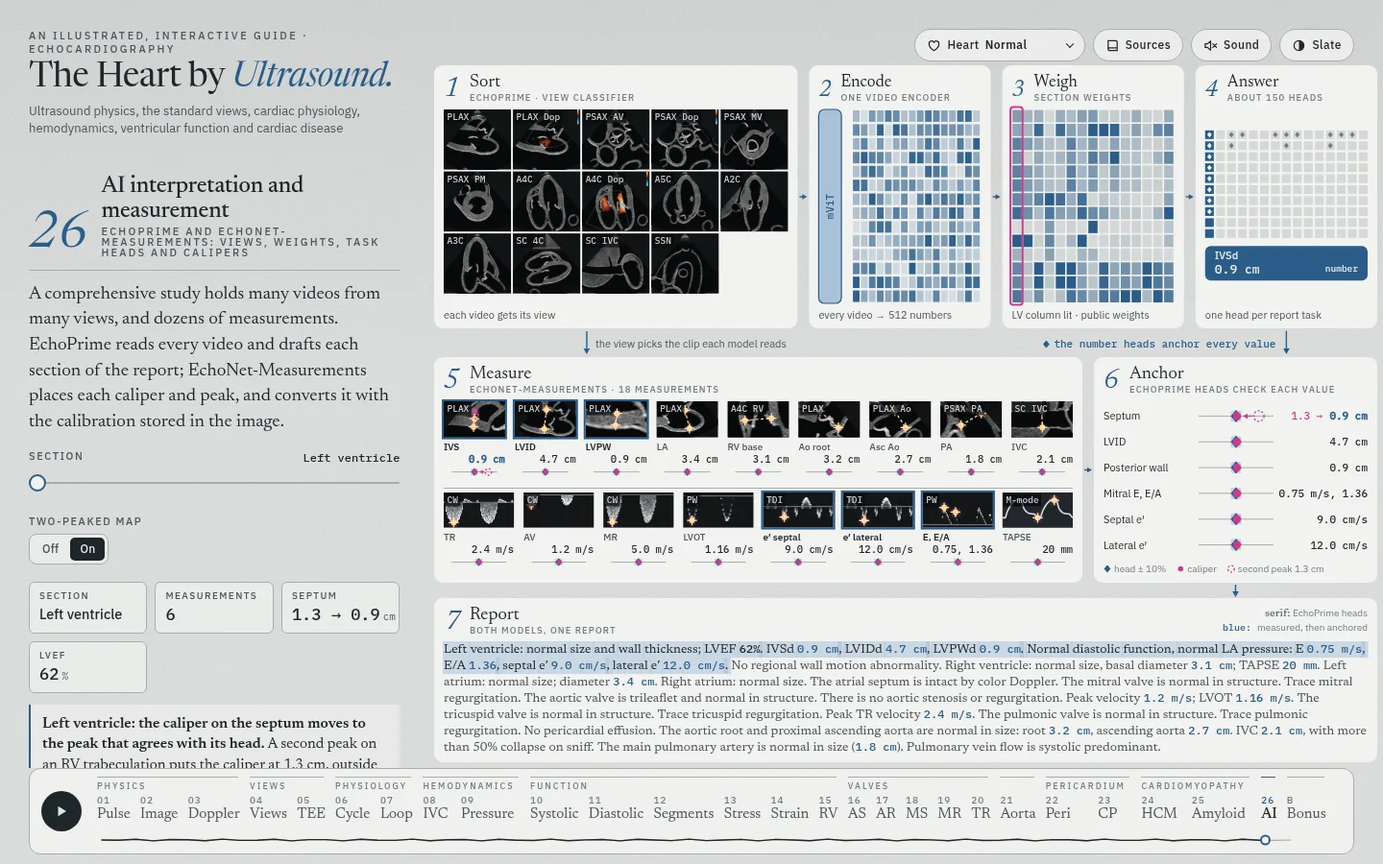
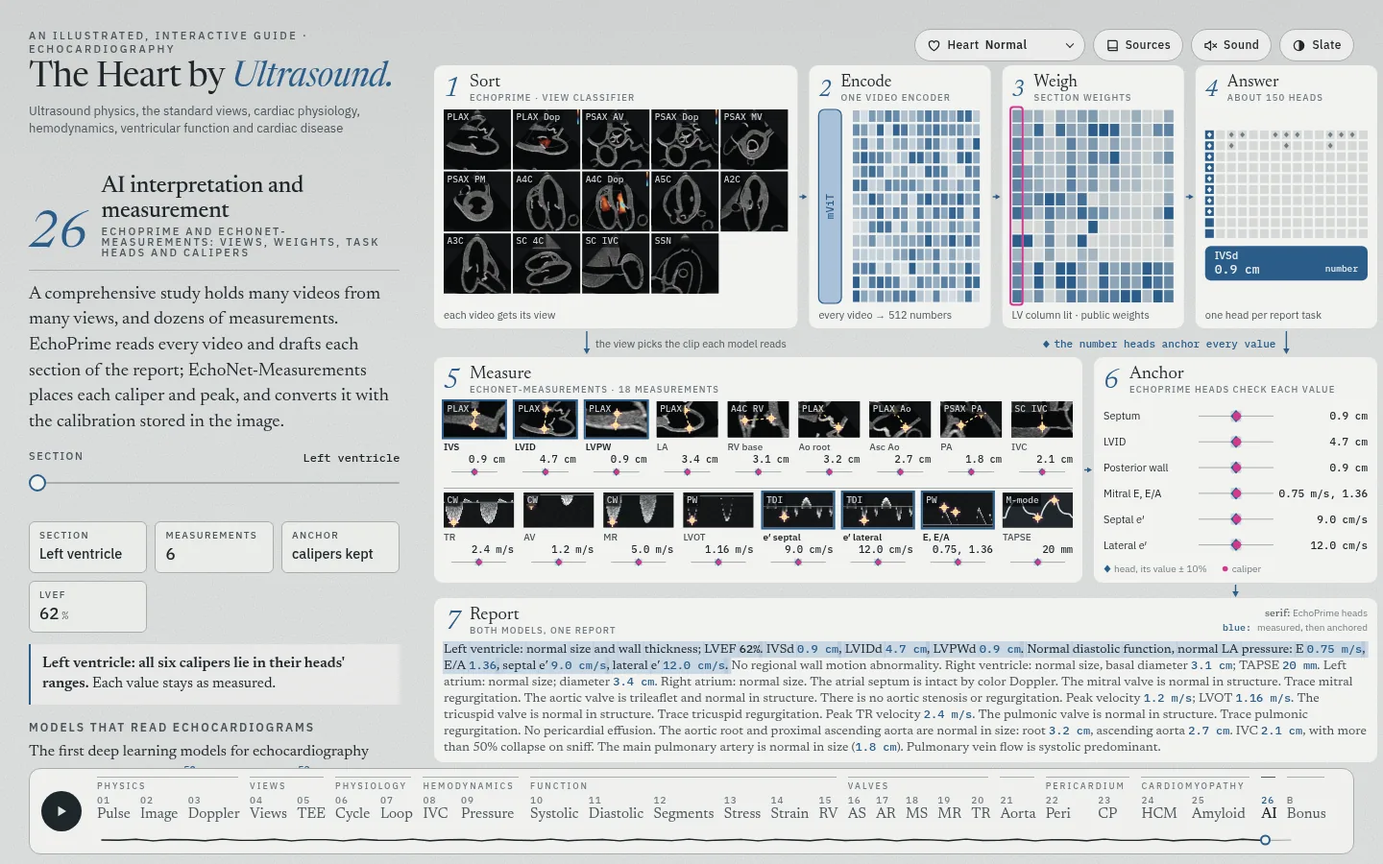
AI figure: the two-peaked map off, its switch hidden
SHOW_TWO (src/aifig.js) is false. The septum's heat map has one peak,
and its switch is hidden (data-ai-two). The code stays. aiTwo defaults
to false, and the tour, the chapter video and the intro reel no longer
set it. The figure sizes its cards for the values that can show.

The chapter text, its key point and the figure's caption no longer
describe a second peak. The anchor's sentence for two calipers reads
"both calipers", and its readout "calipers kept".

README: the AI row, docs/screenshots/ai.webp and a checks entry.

Claude-Session: https://claude.ai/code/session_01NtQNVy8YQ5NUAw3xwF3MnN

diff --git a/index.html b/index.html
@@ -318,7 +318,7 @@
     </figure>
     <figure class="fig" id="fig-ai">
       <canvas class="fig-canvas" aria-hidden="true"></canvas>
-      <figcaption class="sr-only">How EchoPrime and EchoNet-Measurements read one study of the heart shown, in seven steps. EchoPrime: the 14 videos of the study, cut from the heart model, each tagged with its view; one video encoder that turns each video into 512 numbers; the public attention weights, a column for each of the 15 report sections and a row for each video, with the chosen section's column lit; and about 150 task heads, ten for each section, with the number heads marked and one head's value. EchoNet-Measurements: the nine B-mode measurements, each on its view at the frame that it reports, with its heat maps and its caliper, and the nine Doppler and M-mode measurements on eight recordings, each with its value and a check against its head. Then each measurement of the chosen section on a scale with its head's value and range and the caliper's value: with a second peak on its heat map, the septum's caliper falls outside the range, and the anchor moves its end to the peak that agrees. Last, the report for the heart, with the words in a serif face and the measured numbers in blue. A click on a column, a tile or a sentence chooses a section. Arrows link each step to the next. The anchor sits beside the measurements, and the report runs across the foot of the figure. On a small screen, the steps run in more rows, and the figure scrolls.</figcaption>
+      <figcaption class="sr-only">How EchoPrime and EchoNet-Measurements read one study of the heart shown, in seven steps. EchoPrime: the 14 videos of the study, cut from the heart model, each tagged with its view; one video encoder that turns each video into 512 numbers; the public attention weights, a column for each of the 15 report sections and a row for each video, with the chosen section's column lit; and about 150 task heads, ten for each section, with the number heads marked and one head's value. EchoNet-Measurements: the nine B-mode measurements, each on its view at the frame that it reports, with its heat maps and its caliper, and the nine Doppler and M-mode measurements on eight recordings, each with its value and a check against its head. Then each measurement of the chosen section on a scale with its head's value and range and the caliper's value. Last, the report for the heart, with the words in a serif face and the measured numbers in blue. A click on a column, a tile or a sentence chooses a section. Arrows link each step to the next. The anchor sits beside the measurements, and the report runs across the foot of the figure. On a small screen, the steps run in more rows, and the figure scrolls.</figcaption>
     </figure>
     <figure class="fig" id="fig-tee">
       <img class="poster" src="assets/plates/anterior_normal.webp" alt="" width="1400" height="1500">
@@ -1270,7 +1270,8 @@
           <label for="aiSec">Section <output data-for="aiSec"></output></label>
           <input type="range" id="aiSec" data-key="aiSec" min="0" max="14" step="1">
         </div>
-        <div class="control" data-ai-tab="steps">
+        <!-- hidden: the two-peaked map (SHOW_TWO in src/aifig.js) -->
+        <div class="control" data-ai-tab="steps" data-ai-two hidden>
           <span class="label">Two-peaked map</span>
           <div class="seg" role="group" aria-label="A second peak on the heat map of the septum" data-key="aiTwo">
             <button type="button" data-val="false">Off</button><button type="button" data-val="true">On</button>
@@ -1315,10 +1316,10 @@
         <p>The published model drafts each section by retrieval from the earlier studies whose embeddings lie closest to the study's own. A number, such as the LVEF, is the mean of the 50 closest; a finding enters the report when more than half of them carry it<span class="cite" data-ref="vukadinovic2026"></span>. A rare finding is therefore found only when similar studies are in the library. Recent versions, in development and not yet published, replace retrieval with about 150 task heads, one for each task of the report. Their number heads anchor the measurements and adjust them.</p>
         <h3>How EchoNet-Measurements measures</h3>
         <p>Earlier, EchoNet-Dynamic estimated the LVEF over several beats<span class="cite" data-ref="ouyang2020"></span>, and EchoNet-LVH measured LV wall thickness and diameter<span class="cite" data-ref="duffy2022"></span>. EchoNet-Measurements, trained on measurements made in routine practice, has a separate segmentation model for each of 18 measurements, nine in B-mode and nine in Doppler and M-mode<span class="cite" data-ref="sahashi2025"></span>. Each model measures one thing in the view it expects.</p>
-        <p>A model outputs a heat map for each point it looks for: two for a caliper, its two ends, and one for a Doppler peak. In the public code, each point is the weighted center of its heat map. The calibration that the DICOM file stores converts pixels to centimeters or velocities. A heat map with two peaks, for example on the septum and on an RV trabeculation, puts the point between them, on neither structure. An export to a common video format drops the calibration: the points remain, but the model cannot give a number.</p>
+        <p>A model outputs a heat map for each point it looks for: two for a caliper, its two ends, and one for a Doppler peak. In the public code, each point is the weighted center of its heat map. The calibration that the DICOM file stores converts pixels to centimeters or velocities. An export to a common video format drops the calibration: the points remain, but the model cannot give a number.</p>
         <h3>What the figure shows</h3>
         <p>The figure follows one study of the heart shown through both models to one report, in seven steps. A click on a column, a tile or a sentence chooses a section.</p>
-        <p>The task heads and the anchor are a simulation. Each head's value is the site's own measurement of the heart shown, and its range is that value ± 10%: a band chosen for the figure, not an error of the model. Outside the range, the caliper's end moves to the heat map's peak that agrees with the head; with no such peak, the value is flagged for review. The <i>Two-peaked map</i> switch adds a second peak to the septum's heat map: on the normal heart, the caliper reads 1.3 cm, and the anchor returns it to 0.9 cm. The images and the words of the report are the site's own, and the heat maps are drawn on the site's own caliper points. Neither model processed these images.</p>
+        <p>The task heads and the anchor are a simulation. Each head's value is the site's own measurement of the heart shown, and its range is that value ± 10%: a band chosen for the figure, not an error of the model. Outside the range, the caliper's end moves to the heat map's peak that agrees with the head; with no such peak, the value is flagged for review. The images and the words of the report are the site's own, and the heat maps are drawn on the site's own caliper points. Neither model processed these images.</p>
         <h3>Performance</h3>
         <p>Across 17 classification and 11 regression tasks, the mean AUC of EchoPrime was 0.92 at Cedars-Sinai and 0.85 to 0.89 at the external sites. The mean absolute error of the LVEF was 4.79 percentage points in the internal test set and 4.14 to 6.46 at the external sites, against 6.23 to 10.37 for EchoCLIP<span class="cite" data-ref="vukadinovic2026"></span>.</p>
         <p>EchoNet-Measurements was compared with sonographers by the coverage probability: the share of paired measurements that differ by less than an acceptable difference. Across the 18 measurements, the mean coverage probability was 0.796 in held-out studies at Cedars-Sinai and 0.839 in external studies at Stanford Healthcare<span class="cite" data-ref="sahashi2025"></span>.</p>
@@ -1335,7 +1336,7 @@
         <ol class="steps">
         <li>EchoPrime sorts each video by view, turns it into 512 numbers and weights it by view group for each of the 15 report sections.</li>
         <li>The published model drafts each section from the 50 closest earlier studies; the weights show how it mixes views, not which views a finding needs.</li>
-        <li>EchoNet-Measurements has one model for each of 18 measurements. Each point is the weighted center of a heat map, so two peaks put it between them, on neither structure.</li>
+        <li>EchoNet-Measurements has one model for each of 18 measurements. Each point is the weighted center of a heat map, and the calibration stored in the DICOM file converts pixels to centimeters or velocities.</li>
         <li>In a blinded randomized trial, cardiologists changed an AI-first LVEF less often than a sonographer-first LVEF.</li>
         </ol>
       </div>

diff --git a/src/ch/ai.js b/src/ch/ai.js
@@ -8,7 +8,8 @@
 // simulation (aifig.js). Neither model runs here.
 // Two earlier views stay, hidden: Study (the videos, the weights and the share of a section's
 // weight that the videos present carry; SHOW_STUDY) and Retrieval (a map of 2,000 simulated
-// earlier studies, with the k nearest to the heart shown; SHOW_RETRIEVAL).
+// earlier studies, with the k nearest to the heart shown; SHOW_RETRIEVAL). The two-peaked map (a
+// second peak on the septum's heat map, aiTwo) is off, and its switch hidden (SHOW_TWO, aifig.js).
 import { Sheet, MONO, SANS, rng, clamp } from '../sketch.js';
 import { reducedMotion } from '../state.js';
 import { cycleAt, mitralV, lvotV, RR, EV } from '../cyclemodel.js';
@@ -19,7 +20,7 @@ import { onPlane, hingesOf, closureOf, blood, cavity, middle, sub, add, mul, dot
 import { VESSELS } from '../views.js';
 import { GROUPS, SECTIONS, W as WEIGHT, coverage, K_PAPER } from '../echoprime.js';
 import { buildReport, sectionTexts } from './report.js';
-import { drawFigure, bind, measureStep, measureDone, valuesOf, reportOf, linesOf, numHeads, valueText, calText, rowOfStep } from '../aifig.js';
+import { drawFigure, bind, measureStep, measureDone, valuesOf, reportOf, linesOf, numHeads, valueText, calText, rowOfStep, SHOW_TWO } from '../aifig.js';
 
 // The figure: the seven steps (aifig.js). The two earlier views are hidden; their code and
 // controls stay (data-ai-tab in index.html), and each comes back with its switch.
@@ -27,6 +28,8 @@ const SHOW_STUDY = false;
 const SHOW_RETRIEVAL = false;
 /** The view shown: the seven steps, or an earlier view that is switched on and chosen. */
 const tabOf = (s) => (SHOW_RETRIEVAL && s?.aiTab === 'retrieval' ? 'retrieval' : SHOW_STUDY && s?.aiTab === 'study' ? 'study' : 'steps');
+/** The septum's heat map with a second peak: only where the map is switched on (SHOW_TWO) and chosen. */
+const twoOf = (s) => SHOW_TWO && !!s?.aiTwo;
 
 const G = Object.fromEntries(GROUPS.map((g, i) => [g.key, i]));
 /**
@@ -1169,12 +1172,13 @@ const stepOf = (s) => clamp(Math.round(s?.aiStep ?? 0), 0, 7);
 const rowOf = (s) => clamp(Math.round(s?.aiRow ?? 0), 0, 1);
 /**
  * The controls of the view shown (data-ai-tab: the views each serves). The view switch shows only
- * with a figure of two views (data-ai-narrow).
+ * with a figure of two views (data-ai-narrow), and the two-peaked map's switch only with SHOW_TWO
+ * (data-ai-two).
  */
 function showControls() {
   const tab = tabOf(st);
   for (const el of document.querySelectorAll('#ch-ai [data-ai-tab]')) {
-    el.hidden = !el.dataset.aiTab.split(' ').includes(tab) || ('aiNarrow' in el.dataset && !narrowNow);
+    el.hidden = !el.dataset.aiTab.split(' ').includes(tab) || ('aiNarrow' in el.dataset && !narrowNow) || ('aiTwo' in el.dataset && !SHOW_TWO);
   }
 }
 /** The site's figure scrolls its canvas; a video's pane shows the sheet at its own size. */
@@ -1182,7 +1186,7 @@ const scrolls = () => !!figEl?.closest('.stage');
 /** The height of the box that shows sheet sh: the box's own, or the sheet's in a taller box (a video's pane). */
 const boxOf = (sh) => Math.min(sh.h, figEl ? figEl.clientHeight / (sh.z || 1) : sh.h);
 function drawSteps(sh, t) {
-  const S = { sec: secOf(st), step: stepOf(st), two: !!st.aiTwo, row: rowOf(st), heart: heartCase(st), boxH: boxOf(sh) };
+  const S = { sec: secOf(st), step: stepOf(st), two: twoOf(st), row: rowOf(st), heart: heartCase(st), boxH: boxOf(sh) };
   const { L, hits } = drawFigure(sh, t, S, { video: videoTile });
   stepsHit = hits;
   stepsL = L;
@@ -1307,13 +1311,13 @@ function anchorText(sec, V) {
   }
   if (flagged.length) return { lead: `${flagged.map((o) => o.name).join(', ')}: no peak agrees with the head`, rest: 'The value is flagged for review.' };
   const n = lines.length;
-  return { lead: n === 1 ? 'the caliper lies in its head\'s range' : `all ${NUMBER_WORDS[n] || n} calipers lie in their heads' ranges`, rest: n === 1 ? 'The value stays as measured.' : 'Each value stays as measured.' };
+  return { lead: n === 1 ? 'the caliper lies in its head\'s range' : `${n === 2 ? 'both' : `all ${NUMBER_WORDS[n] || n}`} calipers lie in their heads' ranges`, rest: n === 1 ? 'The value stays as measured.' : 'Each value stays as measured.' };
 }
 /** The section's sentence in the figure's report, as plain text. */
 const sentenceOf = (V, sec) => reportOf(V)[sec].parts.map((p) => p[0]).join('');
 
 function stepsText(s, cite) {
-  const sec = secOf(s), step = stepOf(s), V = valuesOf(heartCase(s), !!s.aiTwo), name = IN_TEXT[sec];
+  const sec = secOf(s), step = stepOf(s), V = valuesOf(heartCase(s), twoOf(s)), name = IN_TEXT[sec];
   const lines = linesOf(sec), moved = lines.filter((o) => V.out[o.key].state === 'moved');
   const C1 = cite('vukadinovic2026'), C2 = cite('sahashi2025');
   const cap = (x) => x.charAt(0).toUpperCase() + x.slice(1);
@@ -1343,7 +1347,7 @@ function stepsText(s, cite) {
       { k: 'Section', v: SECTIONS[sec].name, text: true },
       { k: 'Measurements', v: String(lines.length) },
       r0 ? { k: moved[0].name, v: `${calText(r0)} → ${valueText(moved[0], r0).replace(/ \S+$/, '')}`, u: r0.unit, text: false }
-        : { k: 'Anchor', v: lines.length ? 'caliper kept' : 'none', text: true },
+        : { k: 'Anchor', v: lines.length > 1 ? 'calipers kept' : lines.length ? 'caliper kept' : 'none', text: true },
       { k: 'LVEF', v: String(V.ef), u: '%' },
     ],
     live,
@@ -1352,7 +1356,7 @@ function stepsText(s, cite) {
 
 // ---------------------------------------------------------------- the tour
 // Steps 1 to 7, each lit in its view: the left ventricle section, the aortic valve section at step 3
-// and at the end. The septum's map keeps its second peak, so the anchor moves its caliper.
+// and at the end. The septum's map has one peak (aiTwo off).
 const TOUR = [
   [0, 1, 0], [4.5, 2, 0], [9, 3, 0], [12.5, 3, 7], [16, 4, 0], [20.5, 5, 0], [25, 6, 0], [30, 7, 0], [34.5, 7, 7],
 ];
@@ -1364,7 +1368,7 @@ export default {
   title: 'AI interpretation and measurement',
   nav: 'AI',
   dwell: 40,
-  defaults: { aiTab: 'steps', aiSec: 0, aiStep: 0, aiRow: 0, aiTwo: true, aiN: 14, aiOnly: false, aiMap: 'lv', aiK: 50 },
+  defaults: { aiTab: 'steps', aiSec: 0, aiStep: 0, aiRow: 0, aiTwo: false, aiN: 14, aiOnly: false, aiMap: 'lv', aiK: 50 },
   format: {
     aiSec: (x) => SECTIONS[Math.round(x)]?.name ?? '',
     aiN: (x) => `${Math.round(x)} of 14`,
@@ -1441,15 +1445,15 @@ export default {
     }
   },
   pulse() { return { rr: RR, phase: reducedMotion ? null : ((clock * 1000) % RR) / RR }; },
-  tourEnter(set) { set({ aiTab: 'steps', aiStep: TOUR[0][1], aiSec: TOUR[0][2], aiTwo: true, aiRow: rowOfStep(TOUR[0][1]) }); },
+  tourEnter(set) { set({ aiTab: 'steps', aiStep: TOUR[0][1], aiSec: TOUR[0][2], aiTwo: false, aiRow: rowOfStep(TOUR[0][1]) }); },
   tourTick(tt, set) {
     const [, step, sec] = TOUR.filter(([t0]) => tt >= t0).pop();
-    set({ aiTab: 'steps', aiStep: step, aiSec: sec, aiTwo: true, aiRow: rowOfStep(step) });
+    set({ aiTab: 'steps', aiStep: step, aiSec: sec, aiTwo: false, aiRow: rowOfStep(step) });
   },
   // the time of the sequence at which tourTick shows this state (its inverse); a state off the
   // sequence starts it from the beginning
   tourAt(s) {
-    if (tabOf(s) !== 'steps' || !s.aiTwo) return undefined;
+    if (tabOf(s) !== 'steps' || twoOf(s)) return undefined;
     const at = TOUR.find(([, step, sec]) => step === stepOf(s) && sec === secOf(s));
     return at ? at[0] : undefined;
   },

diff --git a/src/aifig.js b/src/aifig.js
@@ -28,6 +28,11 @@ const SERIF = '"Newsreader", "Iowan Old Style", "Palatino Linotype", Palatino, G
 export const BAND = 0.1;
 /** The anchor's scale: the head's value ± 70%, so that the septum's second peak stays on it. */
 const SPAN = 0.7;
+/**
+ * The septum's second peak (valuesOf's two): off, and its switch hidden (ch/ai.js). The cards
+ * take the size of the values that can show. The code stays.
+ */
+export const SHOW_TWO = false;
 const SEC = Object.fromEntries(SECTIONS.map((s, i) => [s.key, i]));
 // the short names of the sections, in a caption and on a chip
 export const SEC_SHORT = ['LV', 'Wall motion', 'RV', 'LA', 'RA', 'Atrial septum', 'Mitral valve', 'Aortic valve', 'Tricuspid valve', 'Pulmonic valve', 'Pericardium', 'Aorta', 'IVC', 'PA', 'Pulmonary veins'];
@@ -473,7 +478,7 @@ function layoutFit(W, H, sh) {
  * the rest to the report.
  */
 function layoutFlow(W, H, sh) {
-  const V = valuesOf('normal', true), wide = W >= 800, lane = wide ? 0 : LANE;
+  const V = valuesOf('normal', SHOW_TWO), wide = W >= 800, lane = wide ? 0 : LANE;
   const x0 = PAD + lane, w0 = W - 2 * PAD - lane, half = (w0 - GAP) / 2;
   let merged = w0 < 600, split = 0.5;
   const rows = [];
@@ -576,7 +581,7 @@ function layoutTabs(W, H, row, sh) {
  * so it does not change with the heart.
  */
 function viewFive(sh, box, g, gy = g) {
-  const half = (box.w - g) / 2, V = valuesOf('normal', true);
+  const half = (box.w - g) / 2, V = valuesOf('normal', SHOW_TWO);
   const make = (merged, compact, h3, level) => {
     const P = {}, h2 = box.h - h3 - gy, y3 = box.y + h2 + gy;
     if (merged) P[5] = { x: box.x, y: box.y, w: box.w, h: h2 };
@@ -629,7 +634,7 @@ const REPORT_WS = 12.5;       // px: the type that sets the report's height ther
  * where the cards need more height than it gives.
  */
 function viewSix(sh, box, g, gy) {
-  const V = valuesOf('normal', true), wa = clamp(Math.round(box.w * 0.3), 280, 400), wl = box.w - wa - g;
+  const V = valuesOf('normal', SHOW_TWO), wa = clamp(Math.round(box.w * 0.3), 280, 400), wl = box.w - wa - g;
   const rows = reportLines(sh, { x: 0, w: box.w - 2 * IN }, reportOf(V), REPORT_WS).rows, lh = Math.round(REPORT_WS * 1.32);
   const repH = (compact, n) => (compact ? HEAD_C + 2 + 7 : HEAD + 4 + 8) + reportPlan(sh, box.w, box.w - 2 * IN, compact, true).foot - 2 + n * lh;
   const make = (merged, compact, h2, h3, level) => {
@@ -720,7 +725,7 @@ function bandNeed(sh, w, kind, V) {
  * phone), with a line to spare for a longer report.
  */
 function reportNeed(sh, w) {
-  const bw = w - 2 * IN, lay = reportLines(sh, { x: 0, w: bw }, reportOf(valuesOf('normal', true)), w < 420 ? 13 : 13.5);
+  const bw = w - 2 * IN, lay = reportLines(sh, { x: 0, w: bw }, reportOf(valuesOf('normal', SHOW_TWO)), w < 420 ? 13 : 13.5);
   return HEAD + 12 + reportPlan(sh, w, bw, false).foot - 2 + (lay.rows + 1) * lay.lh;
 }
 /**
@@ -1387,11 +1392,11 @@ function anchorColumns(sh, w, lines, V) {
 }
 /**
  * The height an anchor card w px wide needs for the most lines a section has (the LV's six, with
- * the septum's second peak): its header, its lines in one row each (18 px) or two (20 px), and
- * its legend. roomy: 26 px a line, for a flow.
+ * the septum's second peak where SHOW_TWO): its header, its lines in one row each (18 px) or two
+ * (20 px), and its legend. roomy: 26 px a line, for a flow.
  */
 function anchorNeed(sh, w, compact, roomy = false) {
-  const V = valuesOf('normal', true), lines = linesOf(0), bw = w - 2 * IN;
+  const V = valuesOf('normal', SHOW_TWO), lines = linesOf(0), bw = w - 2 * IN;
   const { nameW, valW } = anchorColumns(sh, bw, lines, V);
   const rows = lines.length * (roomy ? 26 : bw - nameW - valW - 10 >= 64 ? 18 : 20);
   const free = compact ? compactPlan(sh, w, '6', TITLES[6][0], TITLES[6][1]).free : 0;

diff --git a/video/reel.js b/video/reel.js
@@ -18,8 +18,8 @@
 // the quad screen of a stress test. The right ventricle, added after the review, has no clip, and
 // neither do the chapters added after it, apart from AI interpretation and measurement.
 // AI interpretation and measurement closes the intro: the weights of the LV section, its task heads,
-// then the anchor, which returns the septum's caliper from a second peak. Four bars, so that the
-// score's whole four-bar phrases still end on the end card (36 bars).
+// then the anchor. Four bars, so that the score's whole four-bar phrases still end on the end card
+// (36 bars).
 //
 // A clip has ch (the chapter's key) and bars (its length in bars of the score). A chapter clip has
 // a video in the shape of video/chapters.js. The clip of Views has a cut of the views video
@@ -89,7 +89,7 @@ export const REEL = {
       { set: { amyS: 0.9 }, name: 'Relative apical sparing', line: 'The septum measures {IVSd} mm. {s2}', move: TWO.move, hold: TWO.hold1 },
     ] } },
     { ch: 'ai', bars: 4, video: { pane: 'EchoPrime and EchoNet-Measurements', side: false, zoom: 1.25, discrete: ['aiSec', 'aiStep', 'aiRow'], steps: [
-      { set: { aiTab: 'steps', aiStep: 3, aiSec: 0, aiRow: 0, aiTwo: true }, hold: 1 },
+      { set: { aiTab: 'steps', aiStep: 3, aiSec: 0, aiRow: 0 }, hold: 1 },
       { set: { aiStep: 4 }, move: 0.75, hold: 1 },
       { set: { aiStep: 6, aiRow: 1 }, move: 0.5, hold: 0.75 },
     ] } },

diff --git a/video/chapters.js b/video/chapters.js
@@ -534,8 +534,8 @@ export const VIDEOS = {
   // every step in view: the zoom of 1.25 lays the figure out at 1459 × 542 px, at least the 540 px
   // that its three rows need. The steps sort, encode, and weigh the LV section and then the
   // aortic valve section. The task heads, the 18 measurements, the anchor and the report's LV and
-  // aortic valve follow. The anchor returns the septum's caliper from a second peak. aiRow picks
-  // the view of the figure with tabs (SHOW_TABS in src/aifig.js), which is hidden.
+  // aortic valve follow. aiRow picks the view of the figure with tabs (SHOW_TABS in src/aifig.js),
+  // which is hidden.
   // No step sets another heart: the chapter cuts its videos and tiles for the heart that the
   // page's wait (ready()) sees, and the captions leave the last step's heart there
   ai: {
@@ -544,7 +544,7 @@ export const VIDEOS = {
     zoom: 1.25,
     discrete: ['aiSec', 'aiStep', 'aiRow'],
     steps: [
-      { set: { aiTab: 'steps', aiStep: 1, aiSec: 0, aiRow: 0, aiTwo: true, pheno: 'normal' }, track: 'Sort', hold: 6 },
+      { set: { aiTab: 'steps', aiStep: 1, aiSec: 0, aiRow: 0, pheno: 'normal' }, track: 'Sort', hold: 6 },
       { set: { aiStep: 2 }, track: 'Encode', move: 2, hold: 6 },
       { set: { aiStep: 3 }, track: 'Weigh', move: 2, hold: 6 },
       { set: { aiSec: 7 }, track: 'Aortic valve', move: 2, hold: 6 },

diff --git a/README.md b/README.md
@@ -33,7 +33,7 @@ An illustrated, interactive guide to echocardiography: ultrasound physics and Do
 |  | 23 Constrictive pericarditis | A normal pericardium to severe constriction, with a switch for restrictive cardiomyopathy, normal to grade 3. The four-chamber view is cut from the heart mesh. It shows the pericardium at the printed thickness, the septum's shift with each breath and the atria at the printed LA volume index. Mitral and tricuspid inflow and hepatic vein flow run over two breaths, with a respiratory trace. It adds tissue Doppler of both annular sites, an M-mode of the septum, the IVC on M-mode and the measurements against their cut-offs. The Mayo Clinic criteria grade constriction, and the 2025 ASE algorithm grades restrictive cardiomyopathy; a table compares the two |
 | Cardiomyopathy | 24 Hypertrophic cardiomyopathy | A normal heart to severe obstructive HCM, with a switch for rest or the Valsalva strain and one for the frame (cine, end-diastole, SAM): the parasternal long axis and the apical three-chamber view cut from the heart mesh, with the anterior septum at the printed thickness, the anterior mitral leaflet at the printed SAM-septal gap or touching the septum for the printed share of systole, the LA at the printed volume index and, on the normal heart, the LV at the printed LVEF; calipers at end-diastole and on the SAM; the outflow jet and the posteriorly directed MR jet in one color box; CW through the LVOT (late-peaking, dagger-shaped) and through the MR on one scale; M-mode through the mitral valve with the SAM. The gradient follows the contact as Pollick 1984 found it. The tables mark the obstruction (none, latent, at rest) and the SAM grade |
 |  | 25 Cardiac amyloidosis | Normal heart to advanced amyloid cardiomyopathy: the parasternal long axis at end-diastole with calipers and the apical four-chamber view, both cut from the heart mesh at the chosen amyloid burden; mitral inflow and septal tissue Doppler; the 17-segment strain bull's-eye; the ESC 2021 echo criteria and the multiparametric score, run live. In the text, the criteria as a diagram: ▲▼ buttons on TAPSE, the Doppler velocities and the longitudinal strain of each level give the diastolic grade, the three findings, the score and the result. The walls, which the image shows, have no buttons and follow the slider |
-| Artificial intelligence | 26 AI interpretation and measurement | EchoPrime and EchoNet-Measurements on one study of the heart shown, in seven steps in three rows. 1 Sort: the 14 videos of the study, cut from the heart mesh, each tagged with its view. Each is one beat in 16 frames of 224 × 224 pixels, EchoPrime's input. Three show color Doppler. 2 Encode: one video encoder, 512 numbers a video. 3 Weigh: the 165 anatomical attention weights of the public code. Each of the 15 report sections has a column, and each video has a row. 4 Answer: about 150 task heads, ten for each section, with the number heads marked. 5 Measure: the nine B-mode measurements of EchoNet-Measurements, each on its view cut from the mesh. Each view shows the frame that its clip reports, with the heat maps and the caliper. The nine Doppler and M-mode measurements sit on eight recordings of the chapters that own them (09, 11, 15, 16 and 19). 6 Anchor: each value of the chosen section on a scale, with its number head and the head's range. 7 Report: the site's report for the heart, with EchoPrime's words in a serif face and the measured numbers in blue. The **Two-peaked map** switch adds a second peak on an RV trabeculation to the septum's heat map. The caliper then reads 1.3 cm, outside the head's range. The anchor moves its end to the peak that agrees: 0.9 cm on the normal heart. The heads and the anchor are a simulation (*Sources and data*). A click on a column, a tile or a sentence chooses a section. Arrows link each step to the next, and two labeled links join the models: the view picks the clip each model reads (from 1 to the B-mode band), and the number heads anchor every value (from 4 down to the anchor; under 800 px, to both bands). The figure has no tabs at any size. A figure 840 px wide or more shows every step at once, in three rows at least 540 px tall. The sort takes two fifths of the top row, and steps 2 to 4 take a fifth each. Under the links, row 2 holds the bands and, at their right under step 4, the anchor, at 30% of the width (280 to 400 px). The bands sit side by side, or in one card where that gives larger images. Row 3 holds the report across the figure, as tall as its words at 12.5 px, up to 42% of the height under the links. Where the tiles need more room, the report gives up lines, down to 4. These cards take compact headers where that gives the tiles more room, and a tile first drops its own anchor check, then shows its name in its image's tag. A figure under 540 px tall scrolls the rest into view. A figure narrower than 840 px shows the steps in more rows, each as tall as its cards need, and scrolls. From 800 px these are the three rows: the sort at two fifths beside the other three steps of EchoPrime, then the bands with the anchor at their right, then the report. Under 800 px the sort sits over the other three, which share a row from 486 px and take two rows below that. The bands take two cards from 600 px, else one, and the anchor and the report follow, each across the figure. Where rows lie between the sort and the bands, the sort's link runs down a lane at the left. When a step lights, the figure scrolls its card into view. The videos play only while the sort's card shows |
+| Artificial intelligence | 26 AI interpretation and measurement | EchoPrime and EchoNet-Measurements on one study of the heart shown, in seven steps in three rows. 1 Sort: the 14 videos of the study, cut from the heart mesh, each tagged with its view. Each is one beat in 16 frames of 224 × 224 pixels, EchoPrime's input. Three show color Doppler. 2 Encode: one video encoder, 512 numbers a video. 3 Weigh: the 165 anatomical attention weights of the public code. Each of the 15 report sections has a column, and each video has a row. 4 Answer: about 150 task heads, ten for each section, with the number heads marked. 5 Measure: the nine B-mode measurements of EchoNet-Measurements, each on its view cut from the mesh. Each view shows the frame that its clip reports, with the heat maps and the caliper. The nine Doppler and M-mode measurements sit on eight recordings of the chapters that own them (09, 11, 15, 16 and 19). 6 Anchor: each value of the chosen section on a scale, with its number head and the head's range. 7 Report: the site's report for the heart, with EchoPrime's words in a serif face and the measured numbers in blue. Each caliper of the heart shown lies in its head's range, and the anchor keeps it. The two-peaked map, a second peak on the septum's heat map that the anchor corrects, is off, and its switch is hidden (`SHOW_TWO` in `src/aifig.js`). The heads and the anchor are a simulation (*Sources and data*). A click on a column, a tile or a sentence chooses a section. Arrows link each step to the next, and two labeled links join the models: the view picks the clip each model reads (from 1 to the B-mode band), and the number heads anchor every value (from 4 down to the anchor; under 800 px, to both bands). The figure has no tabs at any size. A figure 840 px wide or more shows every step at once, in three rows at least 540 px tall. The sort takes two fifths of the top row, and steps 2 to 4 take a fifth each. Under the links, row 2 holds the bands and, at their right under step 4, the anchor, at 30% of the width (280 to 400 px). The bands sit side by side, or in one card where that gives larger images. Row 3 holds the report across the figure, as tall as its words at 12.5 px, up to 42% of the height under the links. Where the tiles need more room, the report gives up lines, down to 4. These cards take compact headers where that gives the tiles more room, and a tile first drops its own anchor check, then shows its name in its image's tag. A figure under 540 px tall scrolls the rest into view. A figure narrower than 840 px shows the steps in more rows, each as tall as its cards need, and scrolls. From 800 px these are the three rows: the sort at two fifths beside the other three steps of EchoPrime, then the bands with the anchor at their right, then the report. Under 800 px the sort sits over the other three, which share a row from 486 px and take two rows below that. The bands take two cards from 600 px, else one, and the anchor and the report follow, each across the figure. Where rows lie between the sort and the bands, the sort's link runs down a lane at the left. When a step lights, the figure scrolls its card into view. The videos play only while the sort's card shows |
 
 **Bonus chapters.** Six chapters follow the main chapters as bonus chapters, B1 to B6 (`BONUS` in `src/order.js`). The chapter bar has one entry for them after 26: B, Bonus, in a part of its own. B opens the bonus page, `#bonus` (`src/ch/bonus.js`). The page lists B1 to B6, each with its number, its title and the line under the title, as a link. It has no figure, so the stage hides and the list takes the width of the page. On a phone the list takes one column.
 
@@ -583,6 +583,14 @@ node tools/render-video.mjs --reel --stills=7,42.5             # PNG stills at t
 
 Each entry keeps the chapter numbers of the day it was written.
 
+- AI interpretation and measurement: the two-peaked map off, after the request "Turn off two peak map, don't have toggle, don't make it an issue or visible". `SHOW_TWO` (`src/aifig.js`) is false: the septum's heat map has one peak, and its switch is hidden. The code stays. `aiTwo` defaults to false, the tour and the videos no longer set it, and the figure sizes its cards for the values that can show. The chapter's text, its key point and the figure's caption no longer describe a second peak. The hidden chapter Automated measurements keeps its own switch (`emTwo`). The anchor's sentence for a section of two calipers now reads "both calipers", and its readout "calipers kept".
+  - `node --check` passes on the 4 changed JS files. `node tools/check-state.mjs` and `node tools/preload.mjs --check` pass.
+  - At 390 × 844, 1024 × 768 and 1440 × 900, the switch is hidden and `aiTwo` is false. At steps 1 to 7 of the left ventricle and the aortic valve, no visible text of the chapter names a second peak. With `aiTwo` set true through the page's state, the figure equals the figure with it false, pixel for pixel, in all 42 states. The tour sets `aiTwo` false, and `tourAt` finds its step again. On the branch before this change, the same check fails: the switch shows, `aiTwo` is true, and the text and the figure show the second peak.
+  - The layout at every figure width from 300 to 2,600 px in steps of 5 px, at 7 heights (3,227 layouts): no findings, and the same forms as before. At 10 window sizes from 390 × 844 to 2560 × 1440, the cards keep their places and sizes. In the anchor card, the septum reads 0.9 cm with no arrow, and the legend has no second peak.
+  - The 32 chapters open at 1440 × 900 and 390 × 844 with no page or console error.
+  - `docs/screenshots/ai.webp` was taken again at 1440 × 900, with the state of the screenshot before and `aiTwo` false.
+  - The video of 26: 2,237 frames, all present (`framecrc`), −14.9 LUFS, a true peak of −4.1 dBTP, and the moov atom before the media data. Its audio decodes to the same samples as the video before. Stills at 47, 52, 56 and 60 s were read by eye: the anchor step's caption reads "Anchor: all six calipers lie in their heads' ranges".
+  - Not rendered on this branch: the intro, whose AI clip no longer shows the second peak.
 - AI interpretation and measurement: the anchor in the row of the measurements, after a request with a screenshot at 1440 × 900: "i like this version but put the anchor on same row as the two types of measurements, can show a fewer number of measurements or make smaller as needed. With this, then can have report be longer in width but smaller in height as the final output." In a figure 840 px wide or more, row 2 now holds the bands and the anchor, and row 3 holds the report across the figure (`viewSix` in `src/aifig.js`). The number heads' link drops into the anchor. A figure 800 to 839 px wide takes the same rows. All 18 measurements stay, in narrower tiles. Checks:
   - `node --check` passes on `src/aifig.js`. `node tools/check-state.mjs` and `node tools/preload.mjs --check` pass. The 32 chapters open at 1440 × 900 with no page error.
   - The layout at every figure width from 300 to 2,600 px in steps of 5 px, at 7 heights from 230 to 1,300 px (3,227 layouts), with the web fonts: no card overlaps another or leaves the figure, each label of the links clears every arrow and the figure's edges, and the band of the links holds its lines. Three tests are new: the heads' link drops into the anchor, the anchor shares the row of the measurements, and the report lies under that row.
